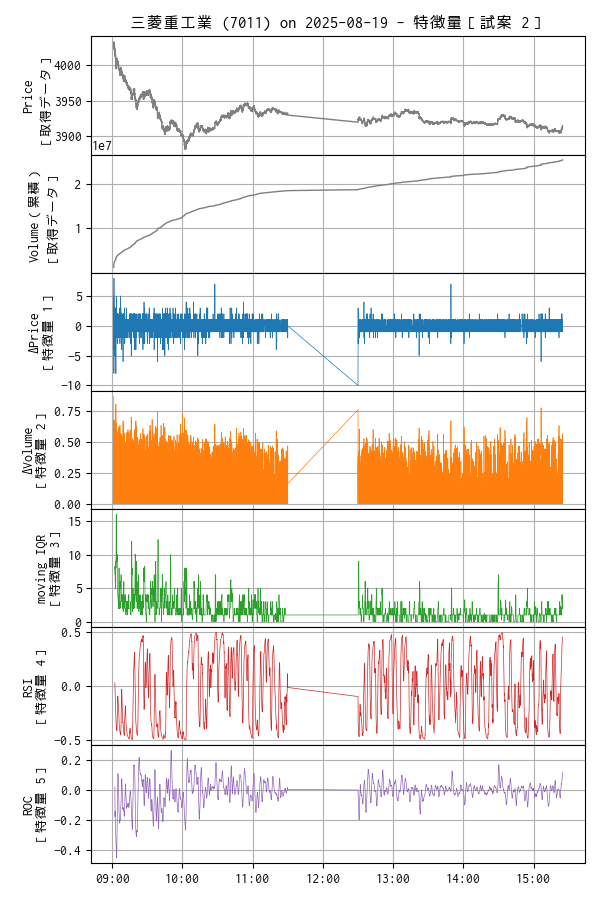
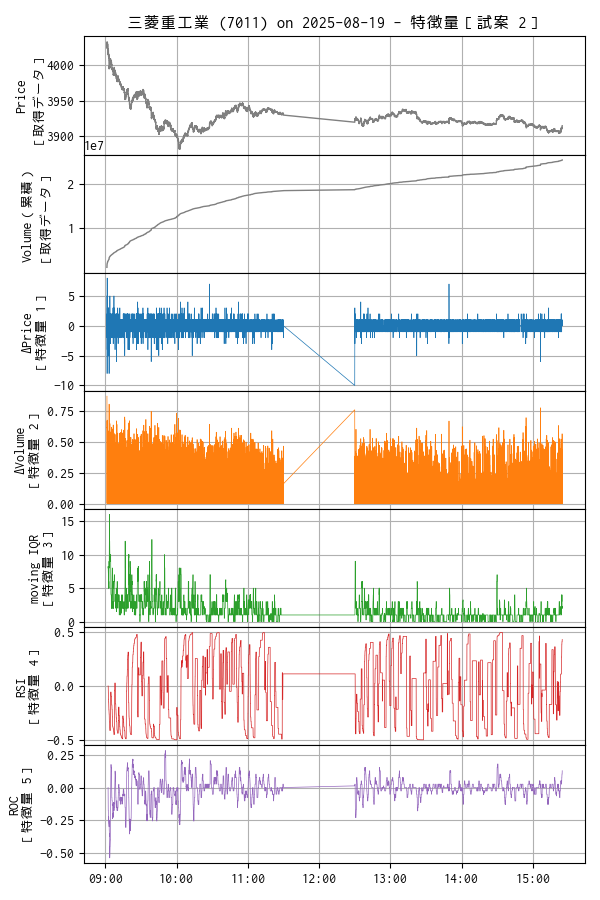
update

diff --git a/modules/trading_env.py b/modules/trading_env.py
@@ -196,7 +196,7 @@ class TradingEnv(gym.Env):
 
         # RSI
         colname = "RSI"
-        mva = self.df["Price"].rolling(period, min_periods=1).mean()
+        mva = self.df["Price"].rolling(period, min_periods=1).median()
         self.df[colname] = (ta.RSI(mva, period - 1) - 50.) / 100.
         list_features.append(colname)
 
